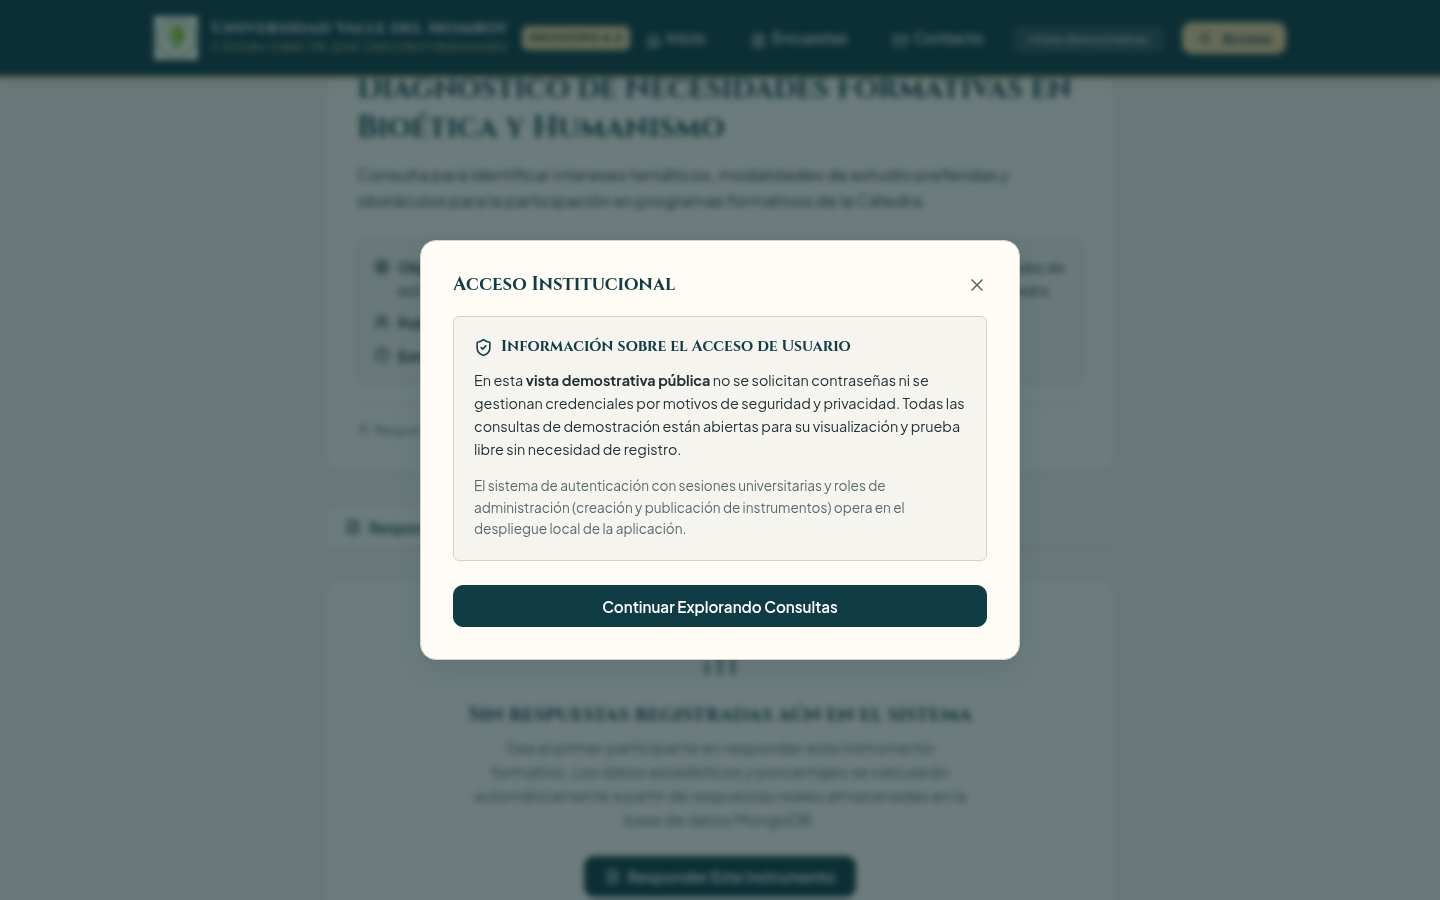
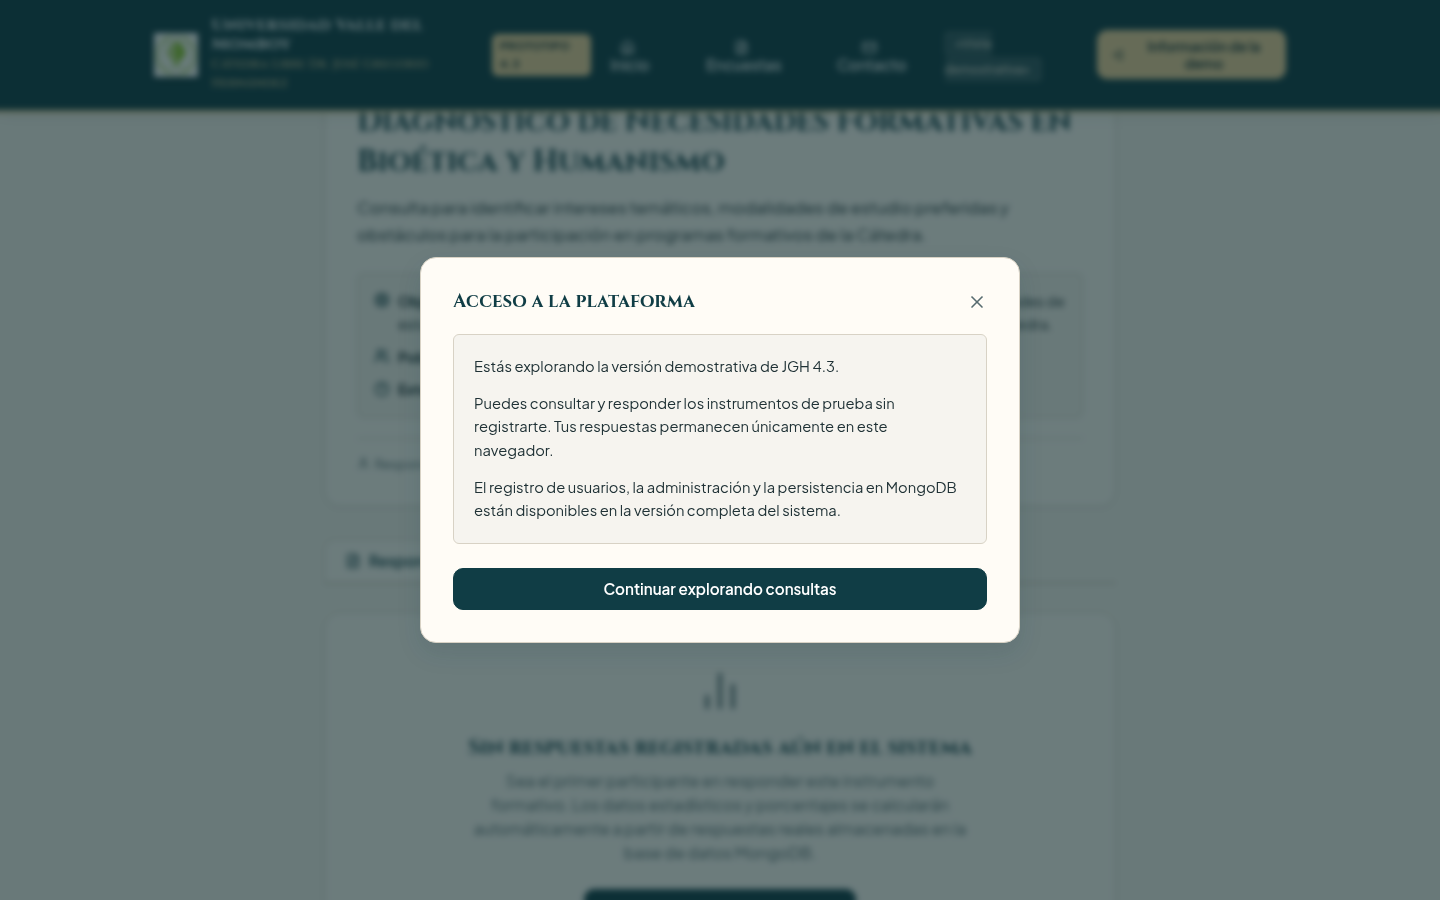
docs(qa): conciliar evidencias, informe de auditoria y paquete con modal simplificado y navegacion por entorno

diff --git a/docs/evidencias/QA_POST_MERGE_PR1.md b/docs/evidencias/QA_POST_MERGE_PR1.md
@@ -131,7 +131,7 @@ Errores en consola del navegador: []
 | `live_03_filtered.png` | Filtrado Temático por Eje | Filtros "Bioética" (2), "Académica" (1), "Comunitaria" (1), "Todos" (4) operativos |
 | `live_04_detail.png` | Detalle del Instrumento Formativo | Formulario de preguntas, opciones e ítems cargados sin error 404 |
 | `live_05_results.png` | Envío de Prueba y Vista de Resultados | Respuesta guardada en `localStorage` y cálculo de barras estadísticas |
-| `live_06_auth_modal.png` | Modal de Autenticación Institucional | Banner explicativo de demostración estática vs entorno local |
+| `live_06_auth_modal.png` | Modal de Acceso a la Plataforma | Botón «Información de la demo» en Navbar, título «Acceso a la plataforma», texto simplificado institucional, cero campos de contraseña y cierre con «Continuar explorando consultas» |
 | `live_07_contact.png` | Formulario de Contacto y Vinculación | 8 campos de vinculación comunitaria y carga de archivo |
 
 ---
@@ -193,7 +193,7 @@ Para validar exhaustivamente la persistencia en MongoDB y la lógica del servido
 Con posterioridad a la resolución técnica inicial del 404, se ejecutó una optimización integral de la experiencia de usuario en la versión pública desplegada en GitHub Pages:
 
 1. **Eliminación del Banner Técnico Invasivo:** Se suprimió la barra fija `.static-demo-banner` que ocupaba espacio visual preeminente con jerga de ingeniería. En su lugar, se incorporó una identificación discreta y accesible en la barra de navegación: `«Vista demostrativa»` (estilo marfil/petróleo, font-size 0.74rem).
-2. **Acceso Honesto y Libre de Errores 503:** Se eliminó el formulario interactivo de login/registro en la versión estática que solicitaba contraseñas para luego devolver un error 503. Se reemplazó por un diálogo sobrio de "Información sobre el Acceso de Usuario" que aclara que las consultas públicas están abiertas sin credenciales y ofrece el botón directo "Continuar Explorando Consultas". En la modalidad local full-stack (`npm run dev`), el formulario con autenticación real bcrypt y cookies HttpOnly se mantiene 100% operativo.
+2. **Acceso Honesto y Navegación según Entorno:** En la barra de navegación de la versión pública se sustituyó el botón «Acceso» por «Información de la demo» (manteniendo «Acceso» con autenticación real en la versión full-stack local). Al pulsar dicho botón, el modal presenta el texto conciso aprobado bajo el título «Acceso a la plataforma», aclarando que las consultas están abiertas sin registro, sin solicitar contraseñas ni incurrir en errores 503, y permitiendo cerrar fluidamente con el botón «Continuar explorando consultas».
 3. **Nota Contextual Breve y Discreta:** Se eliminó la caja amarilla repetitiva en el detalle de las encuestas. Se sustituyó por una nota contextual sobria de una sola línea: *"Nota contextual: Esta es una consulta de demostración académica. Las respuestas de prueba permanecen únicamente en este navegador."*
 4. **Cero Errores Rojos en Limitaciones Conocidas:** El color rojo se reservó exclusivamente para excepciones imprevistas o campos obligatorios no completados. Al guardar respuestas de prueba en modo demostrativo, el sistema confirma amablemente y transiciona directamente a la pestaña de resultados sin advertencias alarmistas.
 5. **Corrección Conceptual y Rigor Académico:** Se erradicó toda mención errónea a «persistencia relacional» para referirse a la base de datos documental MongoDB. Asimismo, se ajustaron los títulos de los instrumentos para presentarlos como «Modelos de consulta académica formativa» sin atribuir aprobaciones institucionales no otorgadas.

diff --git a/docs/entrega/ENTREGA_MANIFEST.md b/docs/entrega/ENTREGA_MANIFEST.md
@@ -2,7 +2,7 @@
 
 **Universidad Valle del Momboy · FrontEndIVIVFI2026C**  
 **Proyecto Final:** Sistema de Encuestas Formativas — Cátedra Libre Dr. José Gregorio Hernández  
-**Fecha de Generación:** 2026-11-26T14:25:04.981Z  
+**Fecha de Generación:** 2026-11-26T15:16:40.134Z  
 **Estudiante / Integrante 1:** Martin Morfe.°. (C.I. 8.263.711)  
 **Estudiante / Integrante 2:** Martin Alejandro Morfe Carballo (C.I. 30.539.018)  
 
@@ -13,9 +13,9 @@
 | Parámetro | Valor |
 |---|---|
 | **Nombre de archivo** | `8263711_martin_morfe.zip` |
-| **Tamaño en disco** | **5.18 MB** (5.430.102 bytes) |
+| **Tamaño en disco** | **5.13 MB** (5.375.276 bytes) |
 | **Algoritmo de Integridad** | SHA-256 |
[2 lines of base64/hex data omitted]
 
 ---
 
